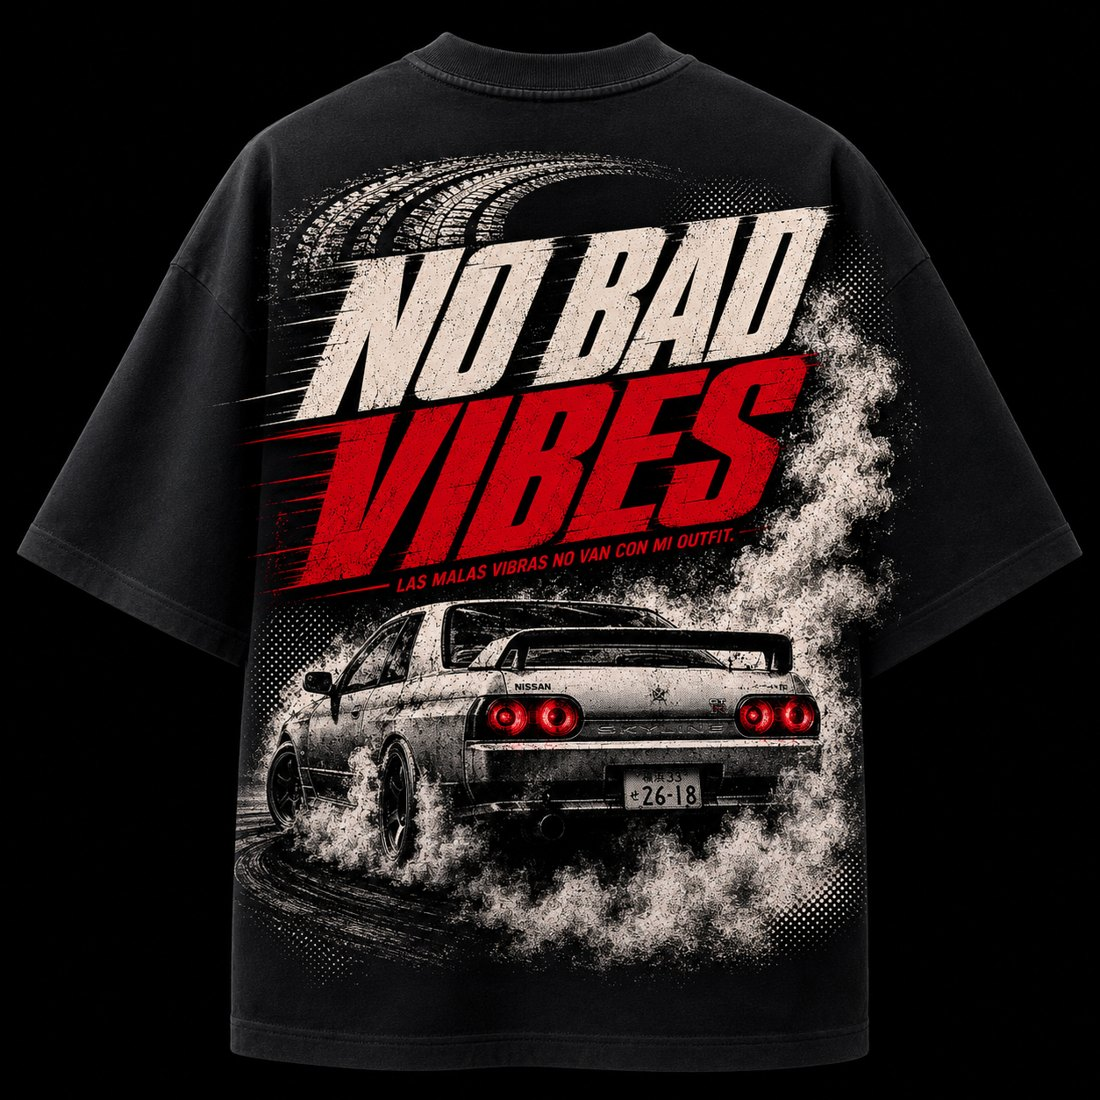
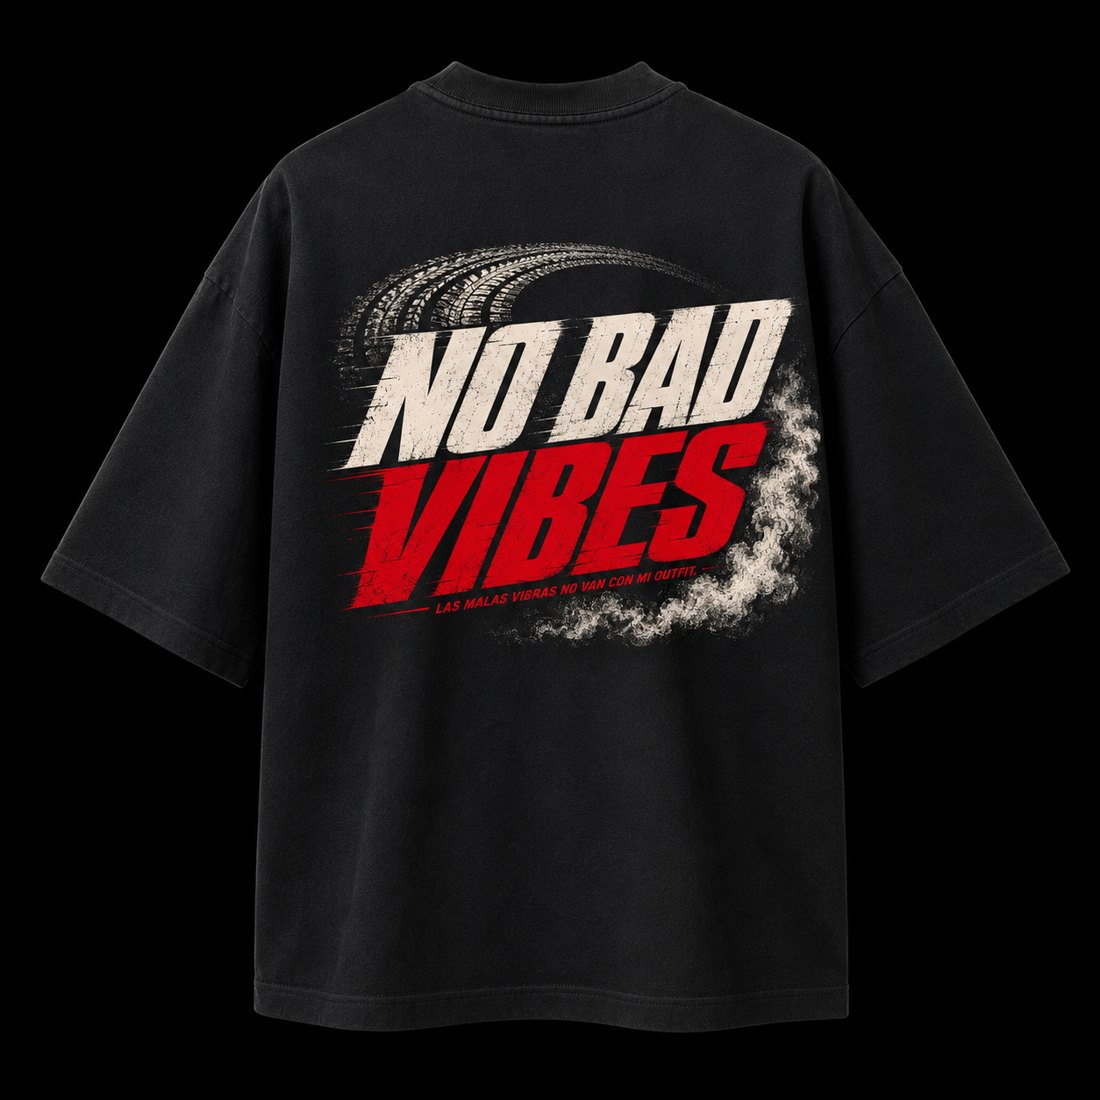
Add ABD demo + portfolio page; clickable cards; remove language switcher

diff --git a/public/portfolio/abd/index.html b/public/portfolio/abd/index.html
@@ -238,12 +238,12 @@ const STR={
 };
 let L=(function(){try{return localStorage.getItem('abd_lang')||'es';}catch(e){return 'es';}})();
 const prods=[
- {num:"01",t:"SKYLINE SMOKE",price:"€42",img:"assets/models/skyline_smoke.jpg"},
- {num:"02",t:"NO BAD VIBES",price:"€39",img:"assets/models/no_bad_vibes.jpg"},
- {num:"03",t:"TOUGE NIGHTS",price:"€44",img:"assets/models/touge_nights.jpg"},
- {num:"04",t:"ROTARY HEART",price:"€42",img:"assets/models/rotary_heart.jpg"},
- {num:"05",t:"KANJO CREW",price:"€49",img:"assets/models/kanjo_crew.jpg"},
- {num:"06",t:"IDLE TEE",price:"€36",img:"assets/models/idle.jpg"}
+ {num:"01",t:"SKYLINE SMOKE",price:"€42",img:"assets/models/skyline_smoke.jpg",p2:"assets/designs/skyline_smoke.jpg"},
+ {num:"02",t:"NO BAD VIBES",price:"€39",img:"assets/models/no_bad_vibes.jpg",p2:"assets/designs/no_bad_vibes.jpg"},
+ {num:"03",t:"TOUGE NIGHTS",price:"€44",img:"assets/models/touge_nights.jpg",p2:"assets/designs/touge_nights.jpg"},
+ {num:"04",t:"ROTARY HEART",price:"€42",img:"assets/models/rotary_heart.jpg",p2:"assets/designs/rotary_heart.jpg"},
+ {num:"05",t:"KANJO CREW",price:"€49",img:"assets/models/kanjo_crew.jpg",p2:"assets/designs/kanjo_crew.jpg"},
+ {num:"06",t:"IDLE TEE",price:"€36",img:"assets/models/idle.jpg",p2:"assets/models/idle_2.jpg"}
 ];
 let cart=0;
 function renderTicker(){const it=STR.ticker[L];let h="";for(let k=0;k<2;k++)it.forEach(t=>h+=`<span>${t}</span><span style="opacity:.5">///</span>`);const el=document.getElementById('tk');if(el)el.innerHTML=h;}
@@ -251,7 +251,7 @@ function renderMarquee(){const m=STR.marquee[L];let h="";for(let k=0;k<2;k++)m.f
 function renderPieces(){
   document.getElementById('pieces').innerHTML=prods.map((x,i)=>`
    <article class="piece">
-     <div class="visual"><div class="num">${x.num}</div><img class="pimg" src="${x.img}" alt="${x.t}"><div class="pdots"><button class="pdot on" data-src="${x.img}" title="Camiseta / Tee"></button><button class="pdot" data-src="${x.img.replace('/models/','/designs/')}" title="Diseño / Design"></button></div></div>
+     <div class="visual"><div class="num">${x.num}</div><img class="pimg" src="${x.img}" alt="${x.t}"><div class="pdots"><button class="pdot on" data-src="${x.img}" title="Camiseta / Tee"></button><button class="pdot" data-src="${x.p2}" title="Diseño / Design"></button></div></div>
      <div class="txt">
        <div class="cat fade">${STR.prod_cat[L][i]}</div>
        <h3 class="fade">${x.t}</h3>
@@ -429,7 +429,7 @@ function tick(){
   // engine sound — sample loops once unlocked; only VOLUME + rate follow the throttle (no play/pause thrash)
   if(revAudio){
     revVol=Math.max(0,revVol-0.0055);              // ~3s tail so a click plays the full rev
-    revAudio.playbackRate=0.85+Math.max(rpm,revVol)*2.2;
+    revAudio.playbackRate=1.0+rpm*0.5;             // natural speed (only mild rise on hard hold) so the full clip is heard
     revAudio.volume=(soundOn&&audioUnlocked)?Math.max(Math.min(1,rpm*1.15),revVol):0;
     if(soundOn&&audioUnlocked&&revAudio.paused){ revAudio.play().catch(()=>{}); }
   }